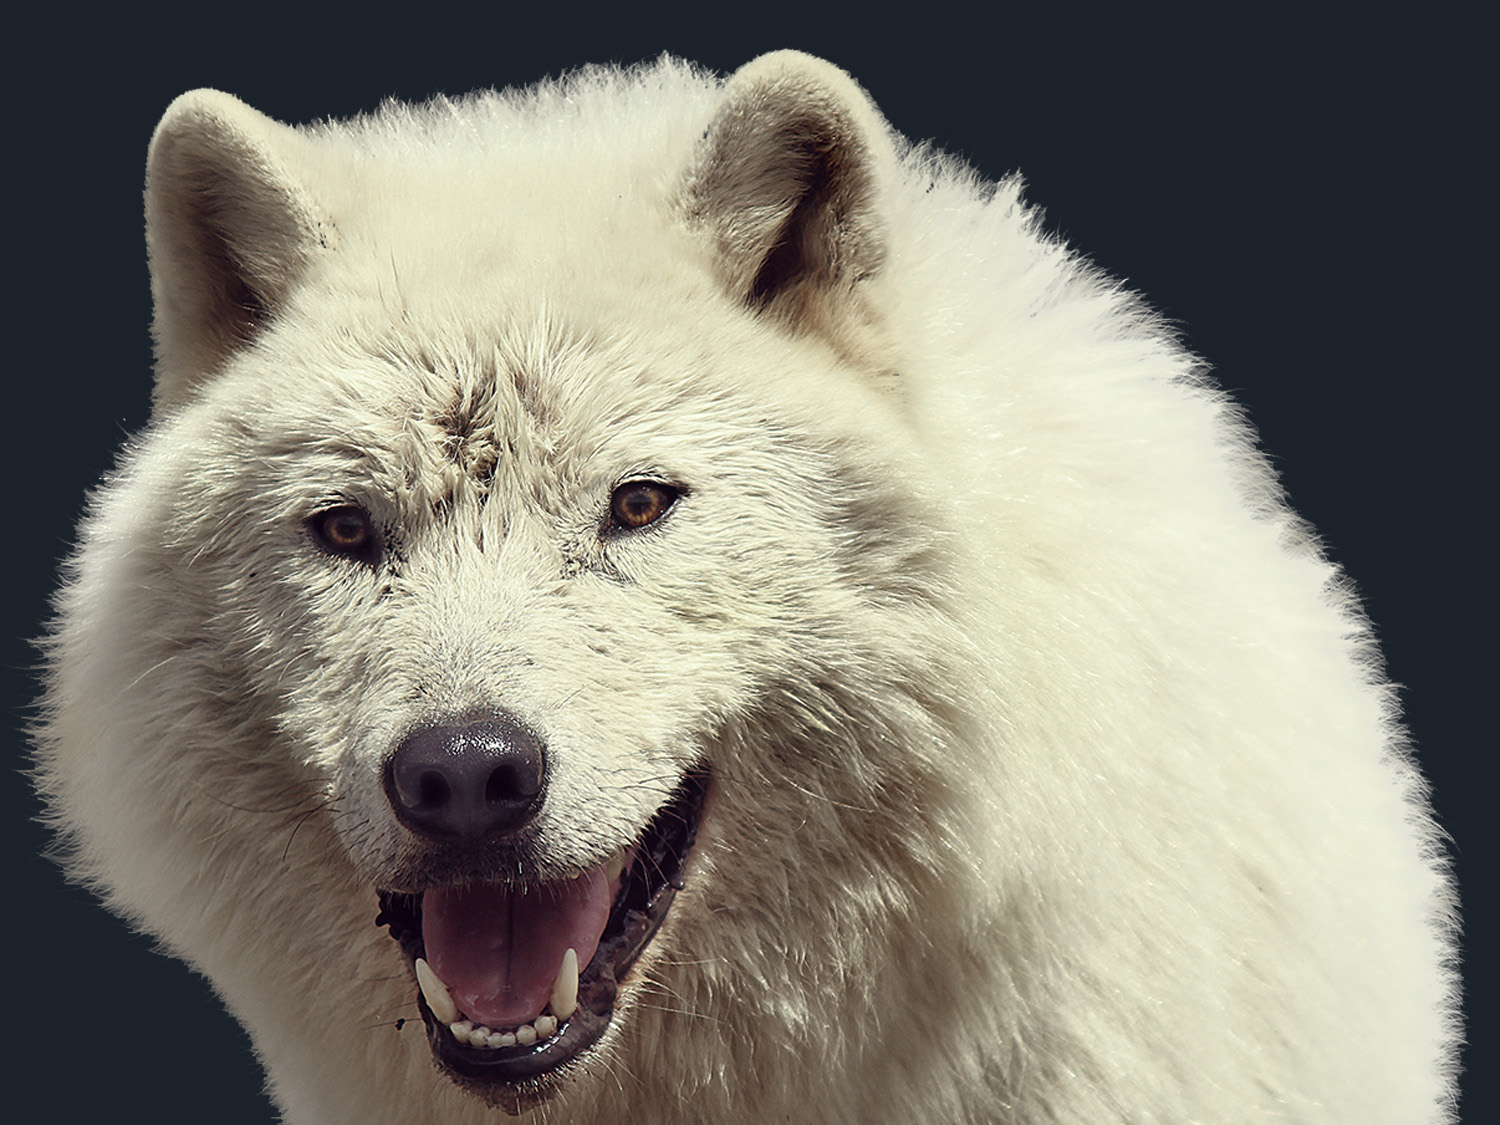
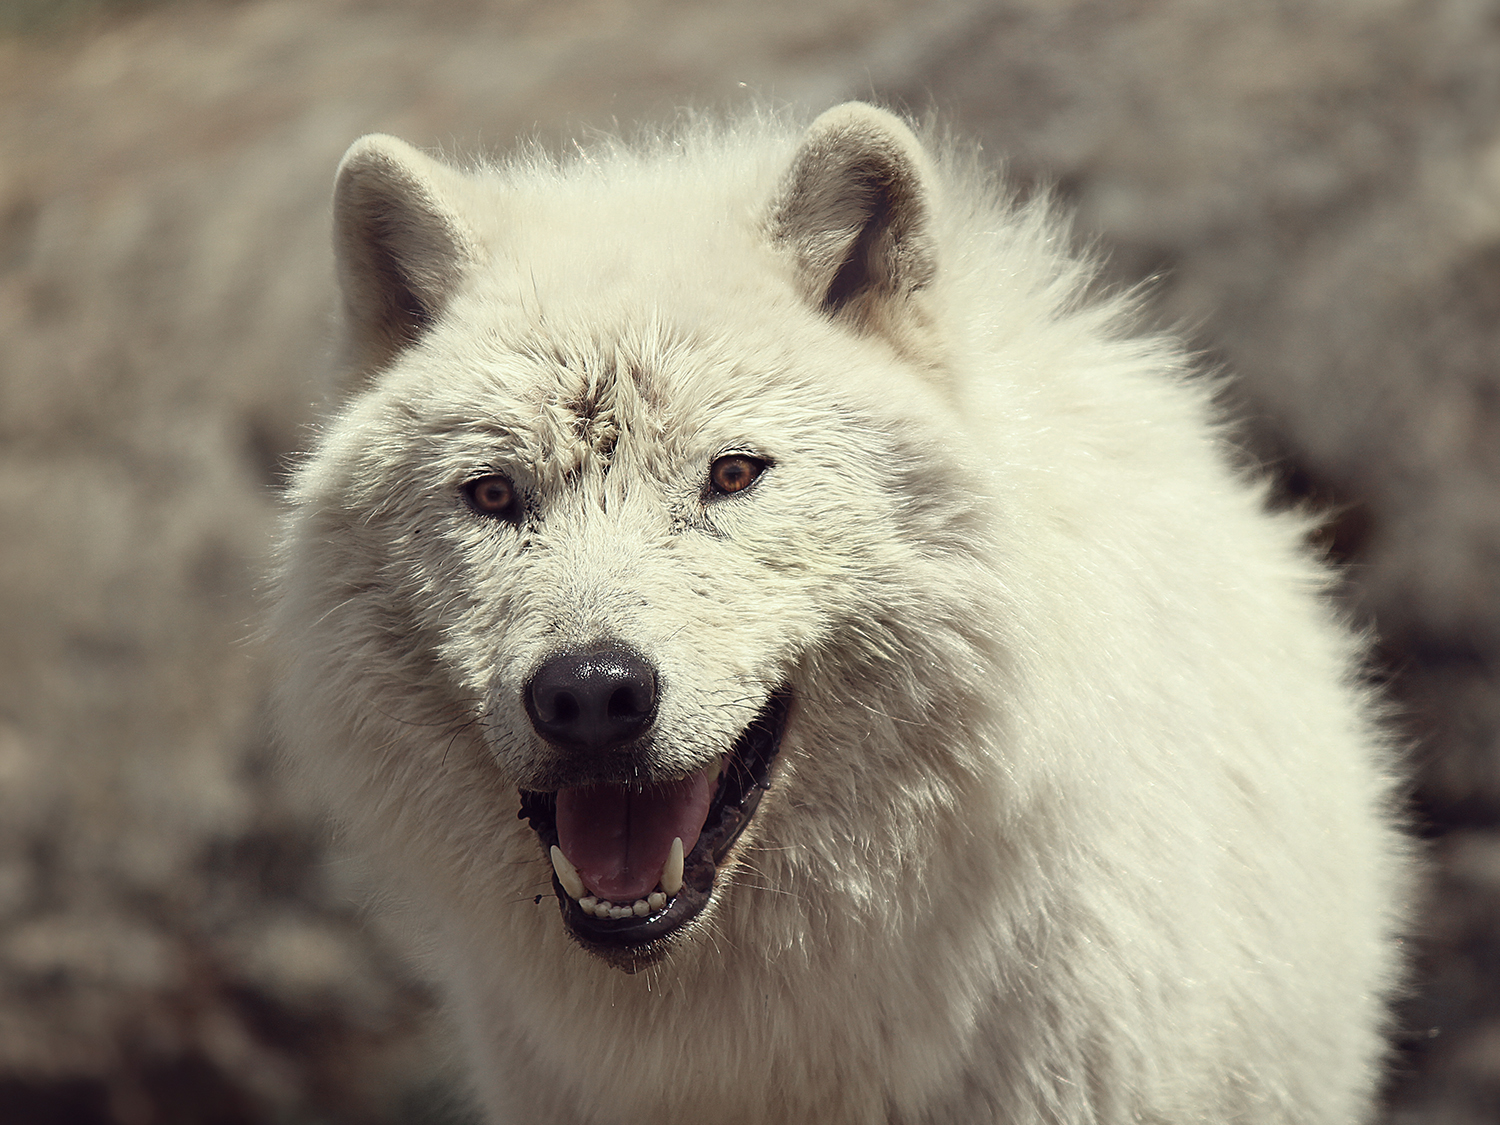
updated case study

diff --git a/showTimes.html b/showTimes.html
@@ -21,7 +21,7 @@ previous: /hotel
         <div class="grid pad-t island">
            <div class="unit unit-xs-1 unit-s-1 unit-m-1-2 unit-l-2-3 island">
                 <div class="embed embed--4by3">
-                    <img src="{{site.baseurl}}/artwork/sampleSign1.jpg" class="main-p-img embed__item" alt="Image of Deer into to nature museum signage">
+                    <img src="{{site.baseurl}}/artwork/signBanner.jpg" class="main-p-img embed__item" alt="Image of Wolf">
                 </div><!-- embed -->
             </div><!-- unit -->
             
@@ -40,7 +40,7 @@ previous: /hotel
 
            <div class="unit unit-xs-1 unit-s-1 unit-m-1-2 unit-l-2-3 island">
                 <div class="embed embed--4by3">
-                    <img src="{{site.baseurl}}/artwork/sampleSign1-01.jpg" class="main-p-img embed__item" alt="Hideaway Hotel, map view">
+                    <img src="{{site.baseurl}}/artwork/sampleSign1-01.jpg" class="main-p-img embed__item" alt="Wireframes">
                 </div><!-- embed -->
             </div><!-- unit -->
             
@@ -55,7 +55,7 @@ previous: /hotel
 
              <div class="unit unit-xs-1 unit-s-1 unit-m-1-2 unit-l-2-3 island">
                 <div class="embed embed--4by3">
-                    <img src="{{site.baseurl}}/artwork/sampleSign7.jpg" class="main-p-img embed__item" alt="Hideaway Hotel, map screen">
+                    <img src="{{site.baseurl}}/artwork/sampleSign7.jpg" class="main-p-img embed__item" alt="Wireframes">
                 </div><!-- embed -->
             </div><!-- unit -->
             
